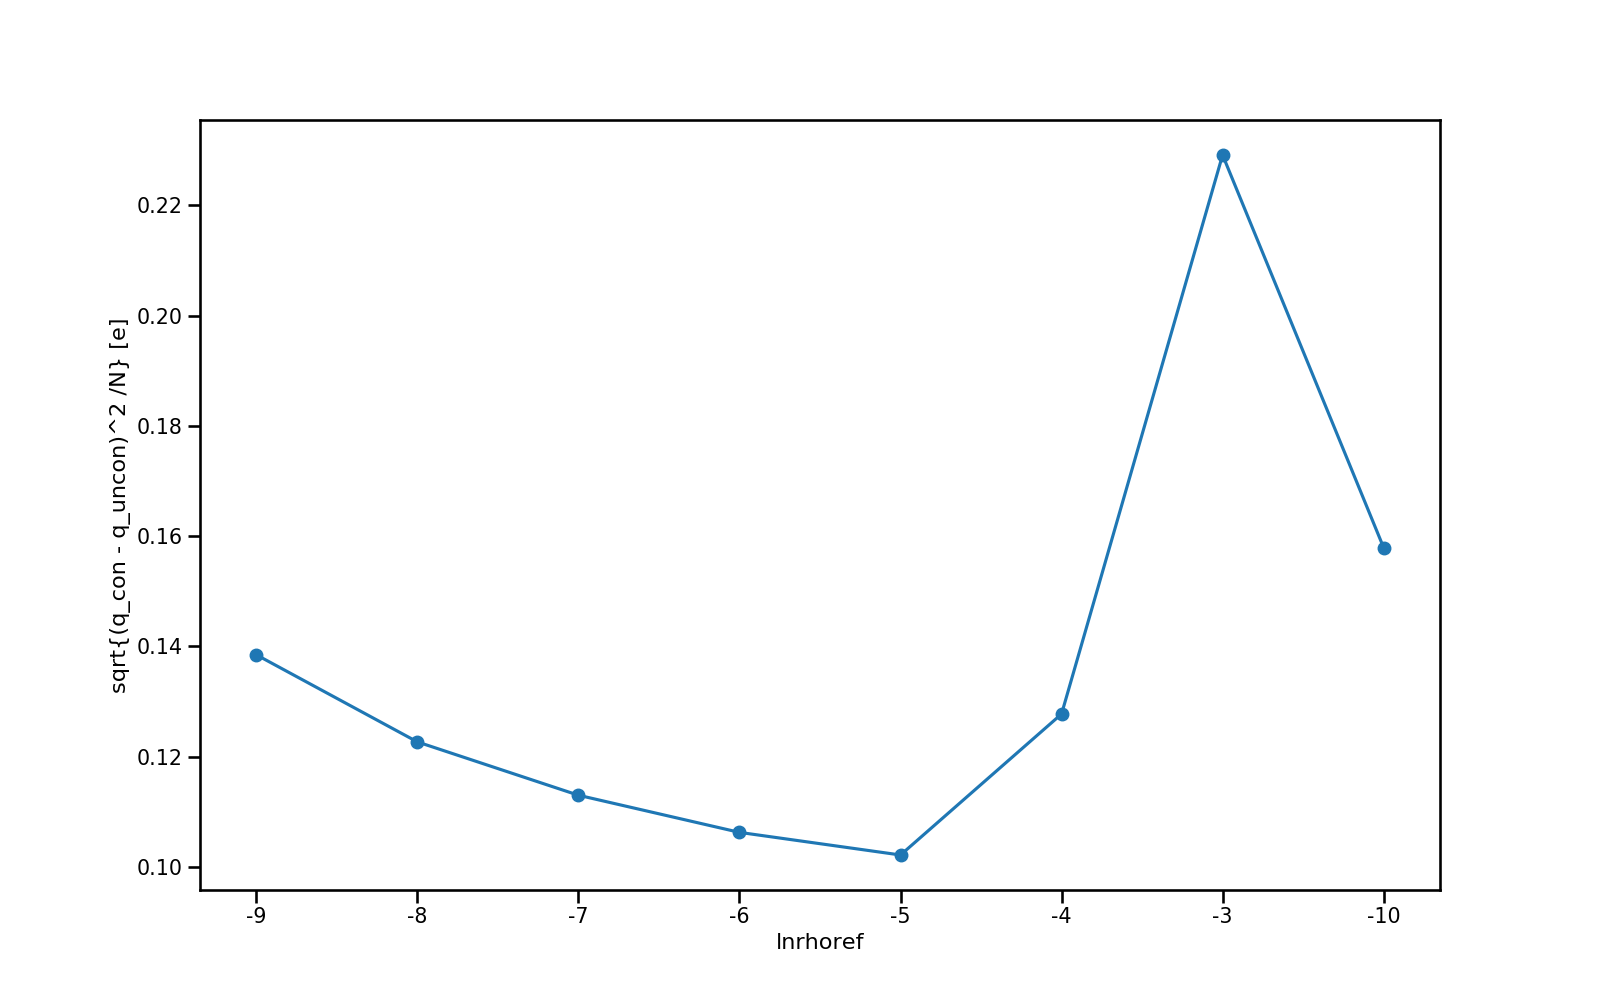
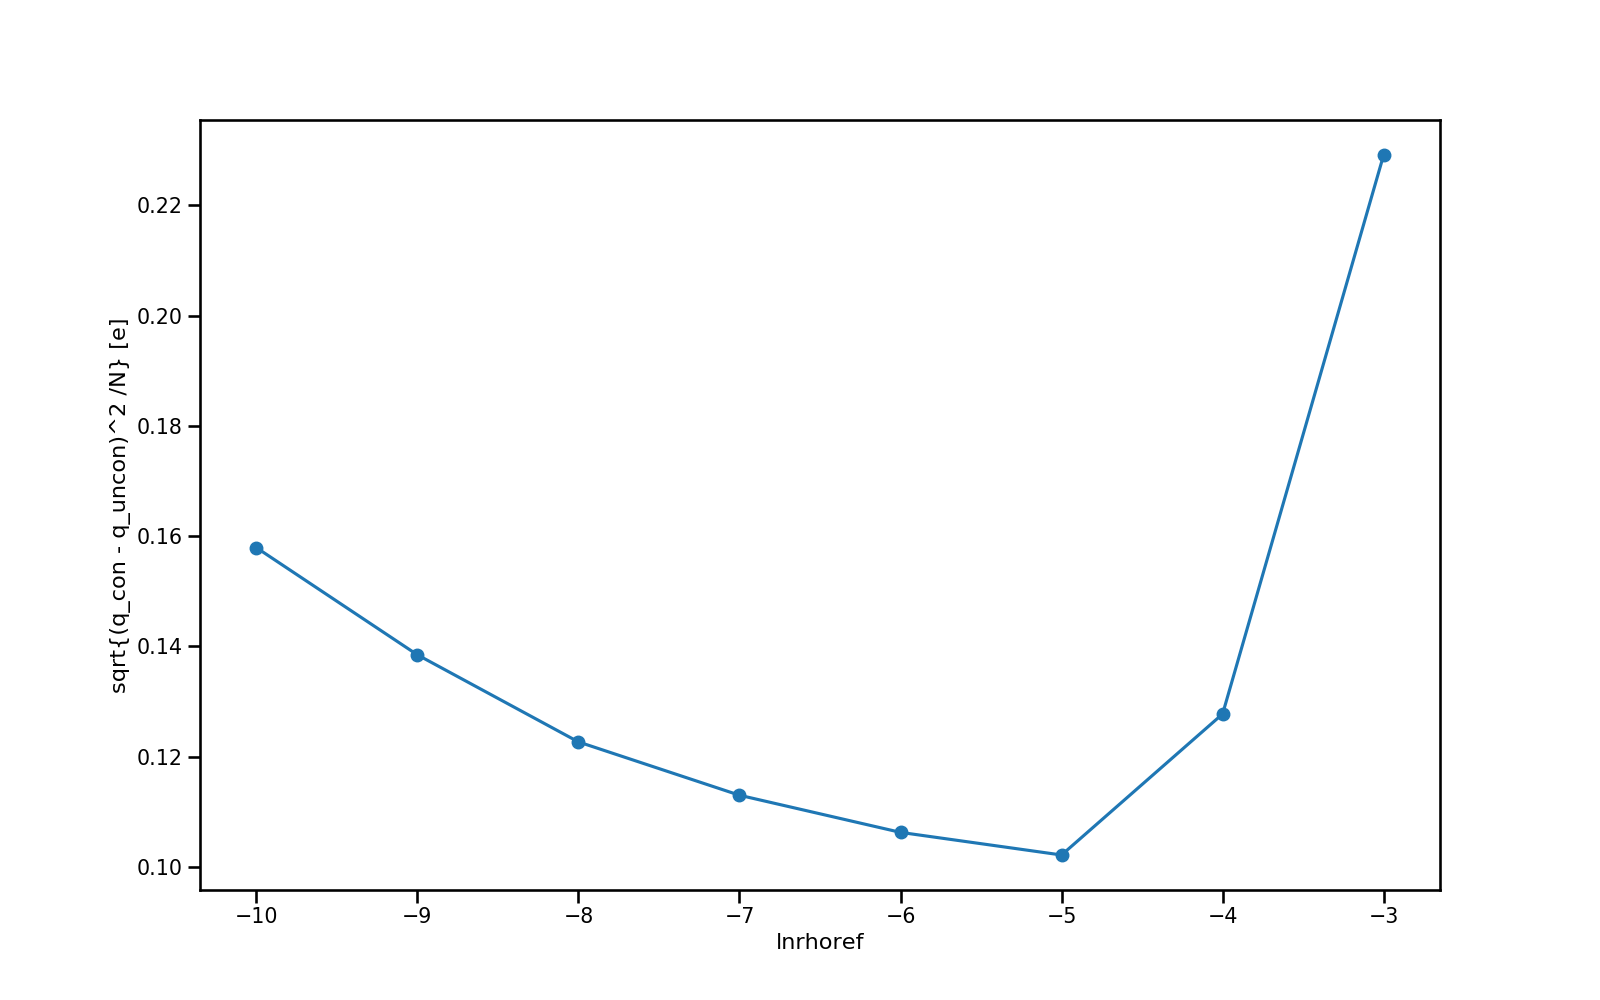
convert index to int

diff --git a/single_plot.py b/single_plot.py
@@ -24,16 +24,20 @@ def default_style(func):
    
 @default_style
 def cumulative_plot(df, plotname='cumulative.png'):
-   p = plt.plot(df.index, df.values, marker='o')
-   print(df.index.tolist())
-   print(df.values)
+   x = df.index.tolist()
+   y = df.values
+   x = [int(i) for i in x]
+   print(x)
+   print(y)
+   p = plt.plot(x, y, marker='o')
    plt.xlabel('lnrhoref')
    plt.ylabel('sqrt{(q_con - q_uncon)^2 /N} [e]')
    plt.savefig(plotname)
 
 def calc_diff(df):
    df = df.mean().apply(np.sqrt)
-   df = df.sort_index(ascending=False)
+   df.index = df.index.map(int)
+   df = df.sort_index(ascending=True)
    return df
 
 def parse_data(constr_file, unconstr_file):
